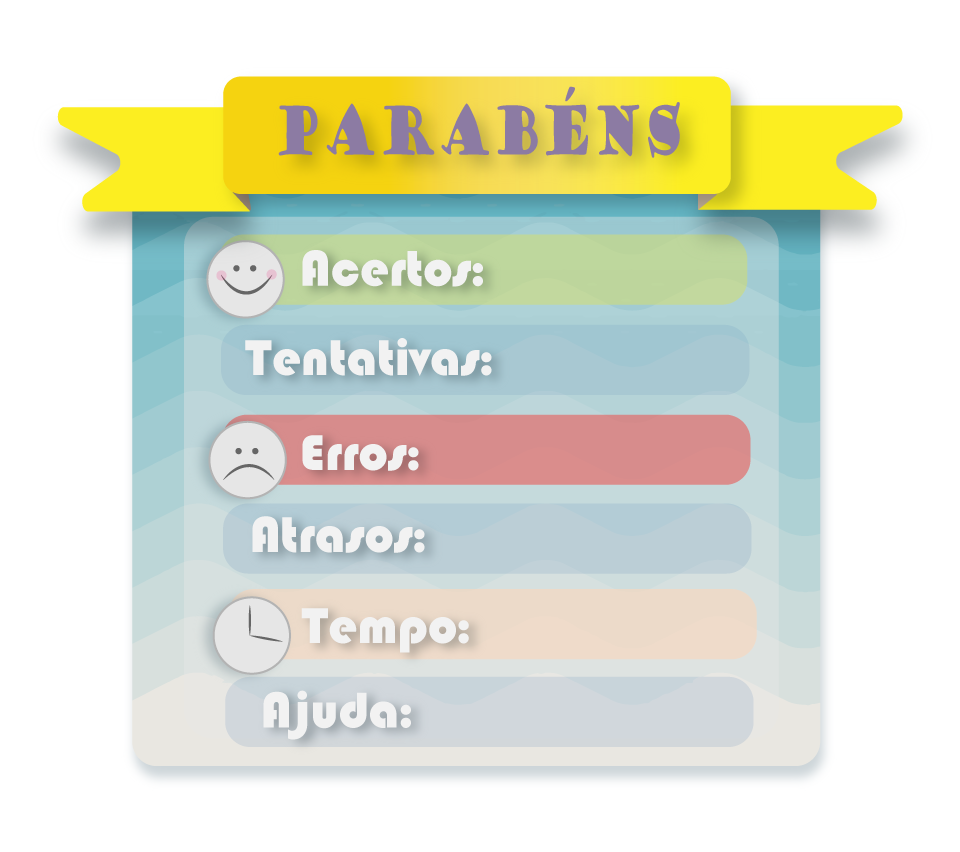
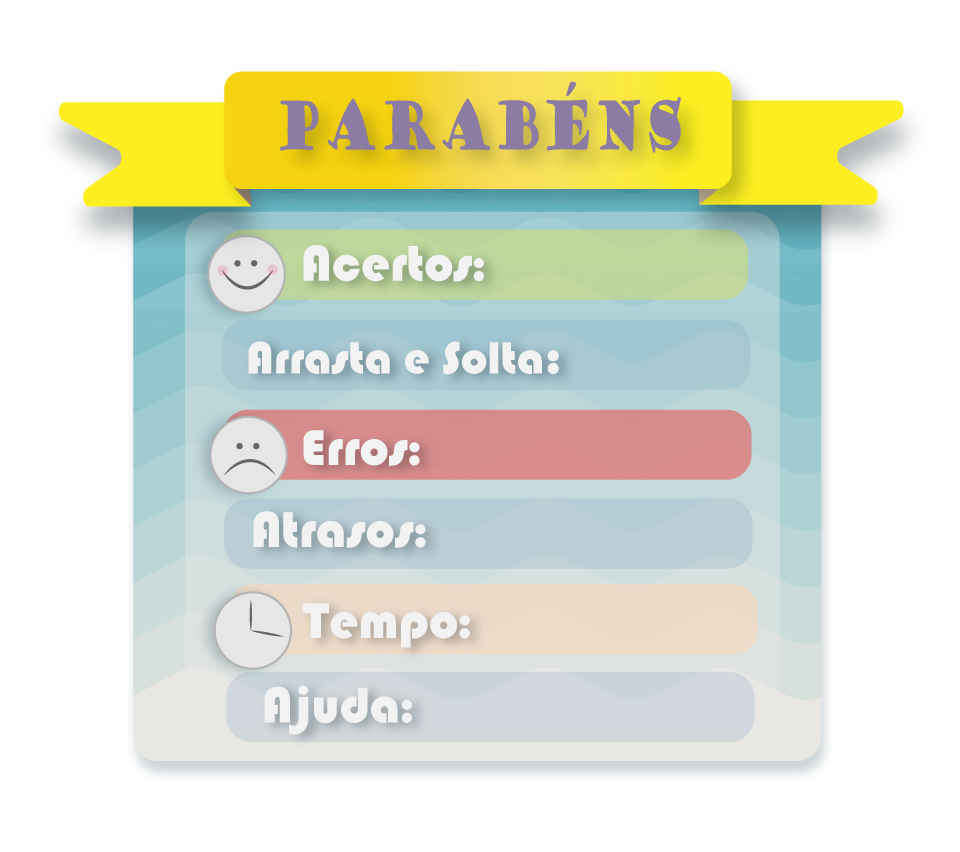
Novo PopUp Adicionado
Mudanças no script para Coletor.js para apresentar de maneira correta no
popup.

diff --git a/assets/Scripts/Parabens/PopupParabens.js b/assets/Scripts/Parabens/PopupParabens.js
@@ -53,7 +53,7 @@ function tempoJogo (tempo : int) {
 		minutos = "0" + minutos;
 	}
 	
-	return "0" + horas + ":" + minutos + ":" + segundos;	
+	return minutos + ":" + segundos;	
 }
 
 // Make the contents of the window
@@ -68,16 +68,16 @@ function DoMyWindow (windowID : int) {
 	GUI.Label (Rect (35, 70, largura - 20, 150), "<size=30>" + popUpDados[0] + "</size>");
 	
 	//Tentativas
-	GUI.Label (Rect (35, 92, largura - 20, 200), "<size=30>" + popUpDados[2] + "</size>");
+	GUI.Label (Rect (70, 92, largura - 20, 200), "<size=30>" + popUpDados[1] + "</size>");
 	
 	//Erros
-	GUI.Label (Rect (-5, 140, largura - 20, 200), "<size=30>" + popUpDados[1] + "</size>");
+	GUI.Label (Rect (-5, 140, largura - 20, 200), "<size=30>" + popUpDados[2] + "</size>");
 	
 	//Atraso
-	GUI.Label (Rect (50, 185, largura - 20, 200), "<size=30>"+ tempoJogo(popUpDados[5]) + "</size>");
+	GUI.Label (Rect (35, 185, largura - 20, 200), "<size=30>"+ tempoJogo(popUpDados[5]) + "</size>");
 	
 	//Tempo
-	GUI.Label (Rect (75, 230, largura - 20, 200), "<size=30>"+ tempoJogo(popUpDados[4]) + "</size>");
+	GUI.Label (Rect (60, 230, largura - 20, 200), "<size=30>"+ tempoJogo(popUpDados[4]) + "</size>");
 	
 	//Ajuda/Step
 	GUI.Label (Rect (-5, 275, largura - 20, 200), "<size=30>" + popUpDados[6] + "</size>");

diff --git a/assets/Scripts/Coletor/Coletor.js b/assets/Scripts/Coletor/Coletor.js
@@ -85,7 +85,7 @@ public class Coletor{
 		}
 		
 		public function RetornaDados () {
-			var array = new Array(acertos,erros,GetTentativasTotais(),dragDrop,tempoTotal,delay,step);
+			var array = new Array(acertos,dragDrop,erros,dragDrop,tempoTotal,delay,step);
 			return array;
 		}
 		
